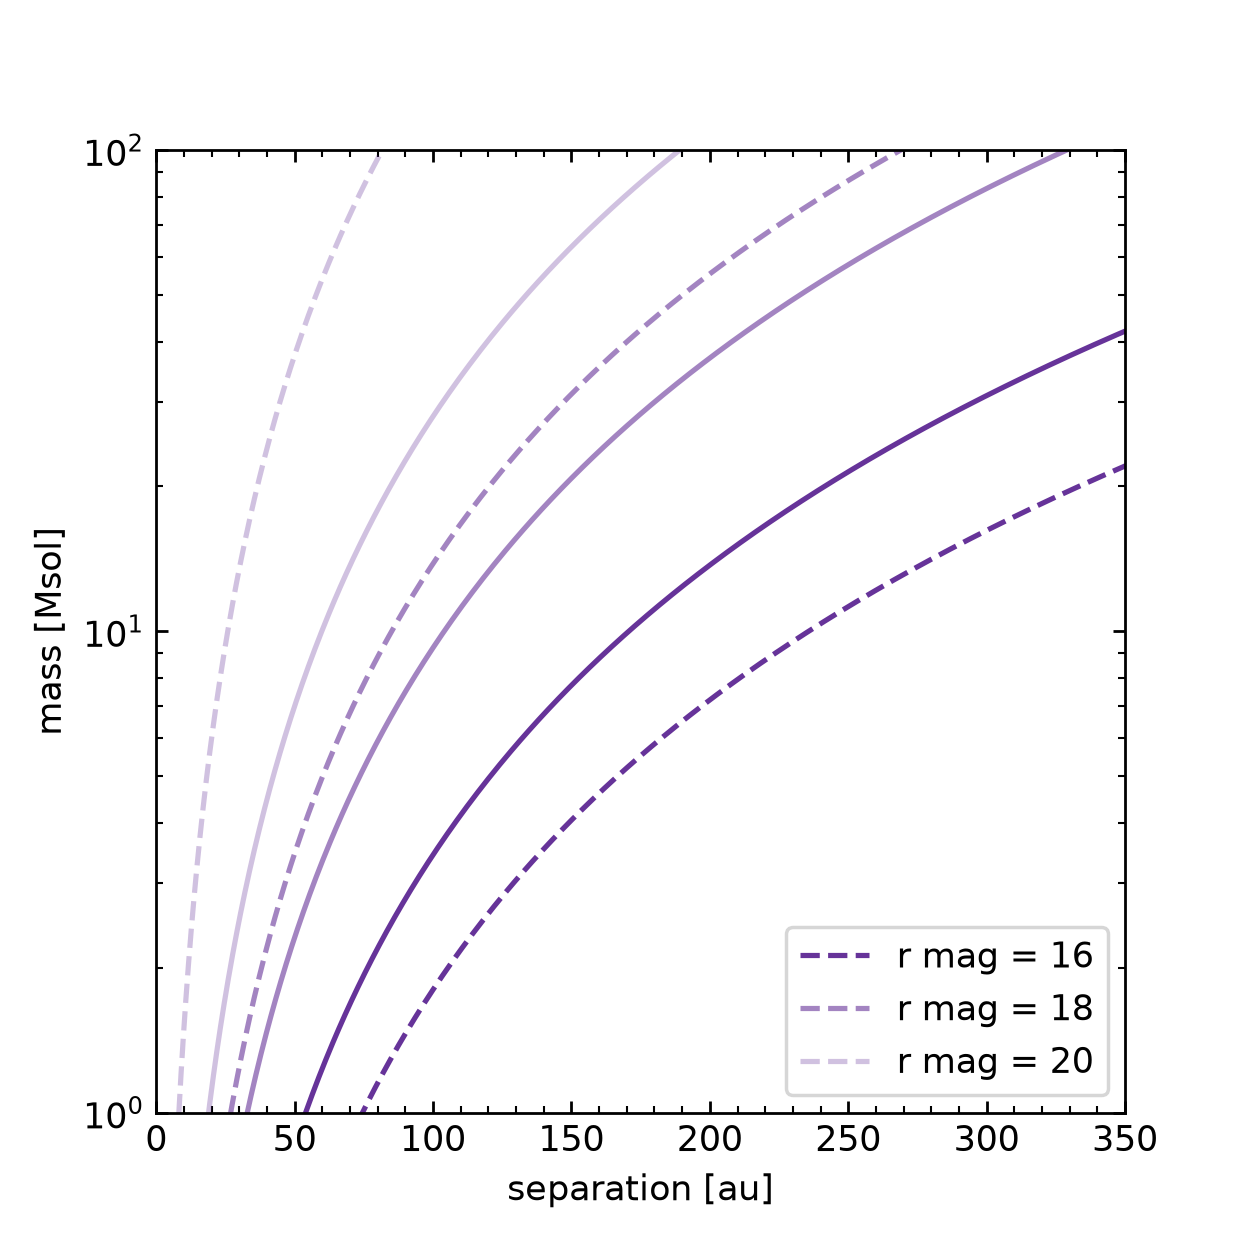
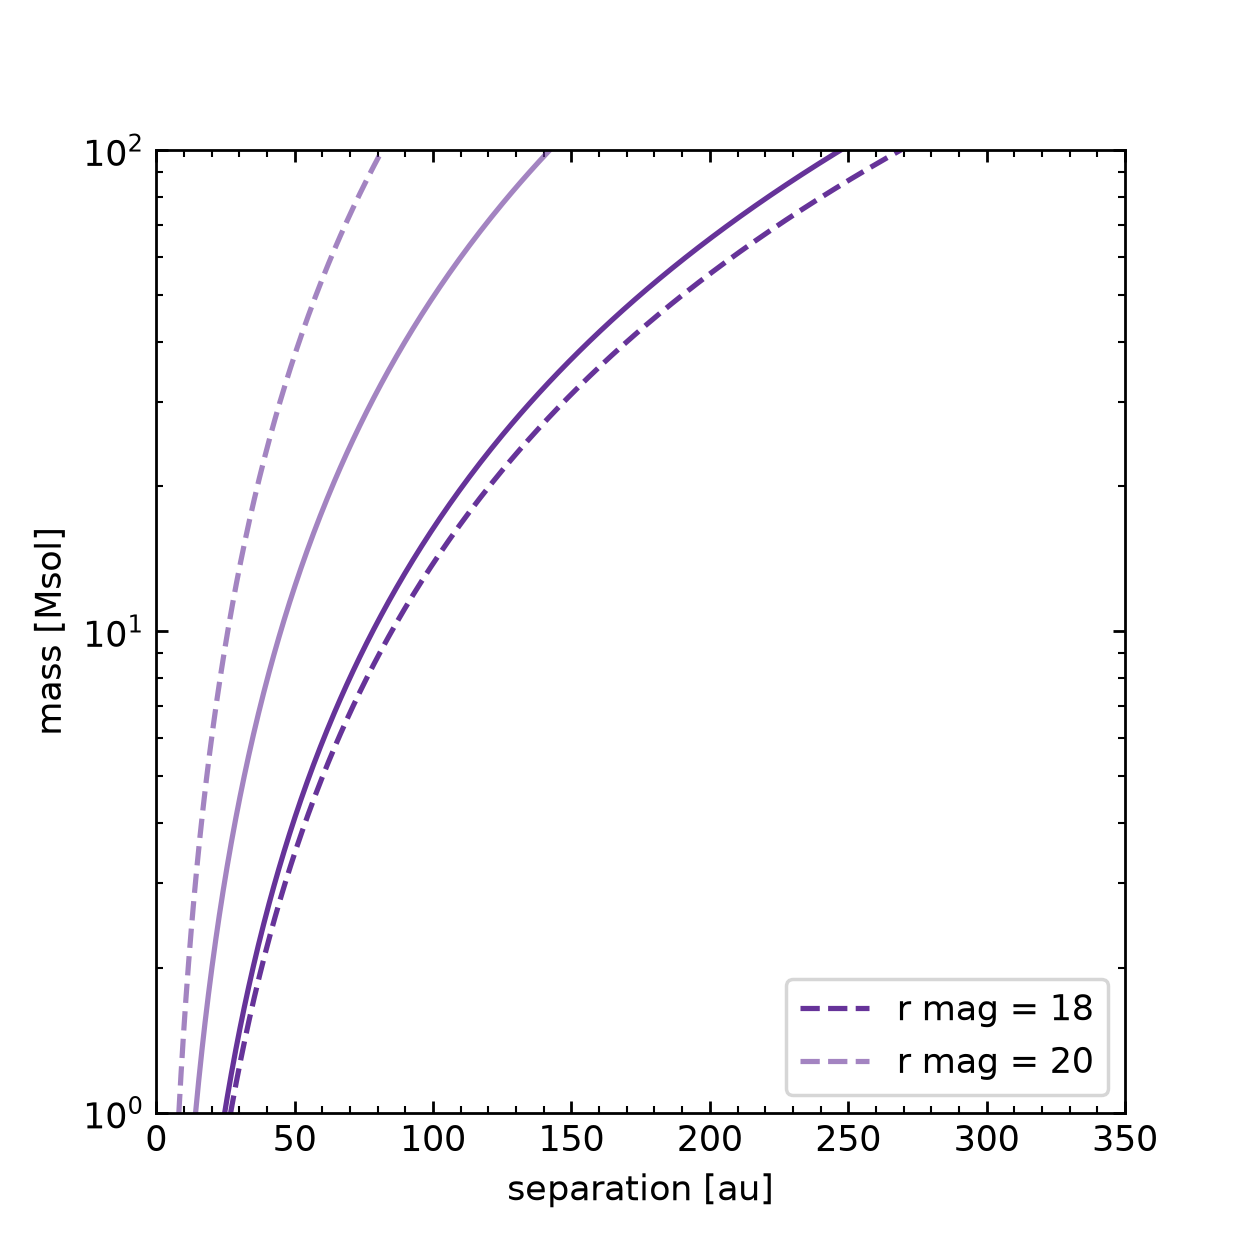
correct baseline typo

diff --git a/src/scialog2026/gaia_lsst.py b/src/scialog2026/gaia_lsst.py
@@ -43,7 +43,7 @@ plt.figure(figsize=(5, 5))
 
 for i, m_r in enumerate(
     [
-        16,
+        # 16,
         18,
         20,
     ]
@@ -73,9 +73,11 @@ for i, m_r in enumerate(
 
     # compute acceleration sensitivity of Gaia DR4 and Gaia-LSST
     gaia_acceleration_floor = pm_unc_gaia_dr4 / delta_t_gaia_dr4
-    gaia_dr4_lsst_acceleration_floor = (
-        pm_unc_gaia_dr4_lsst / delta_t_gaia_lsst_fullsurvey
-    )
+    gaia_dr4_lsst_acceleration_floor = pm_unc_gaia_dr4_lsst / delta_t_gaia_dr4_lsst0
+
+    import pdb
+
+    pdb.set_trace()
 
     # compute detectability limit in mass/orbital separation
     separation_array = np.logspace(-1, np.log10(400), int(1e3))  # [au]
